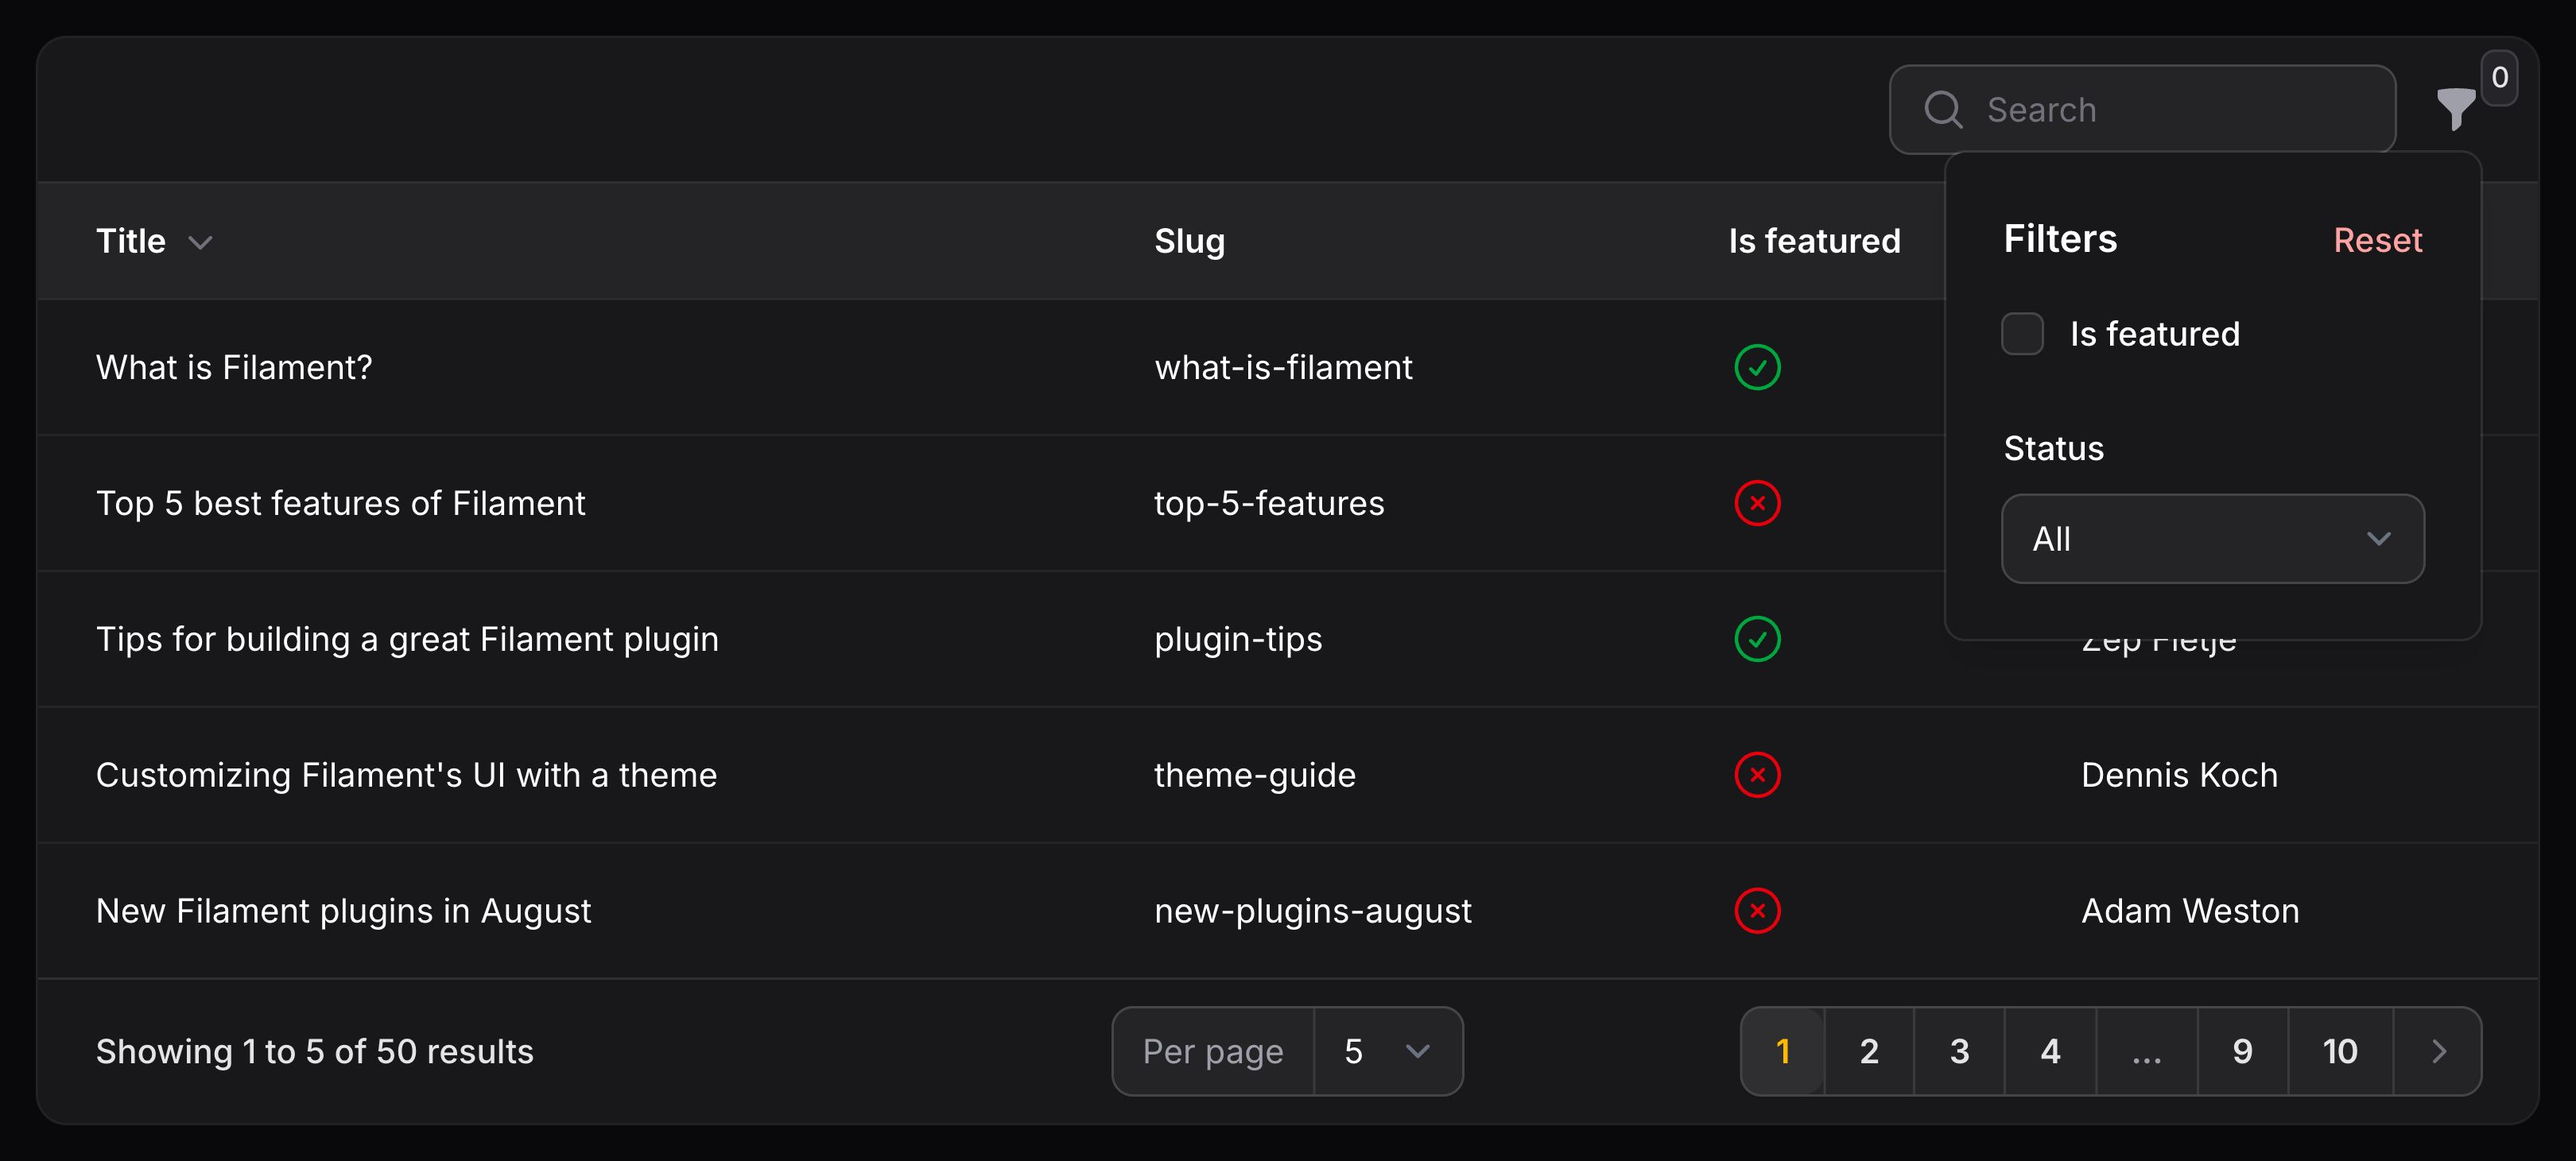
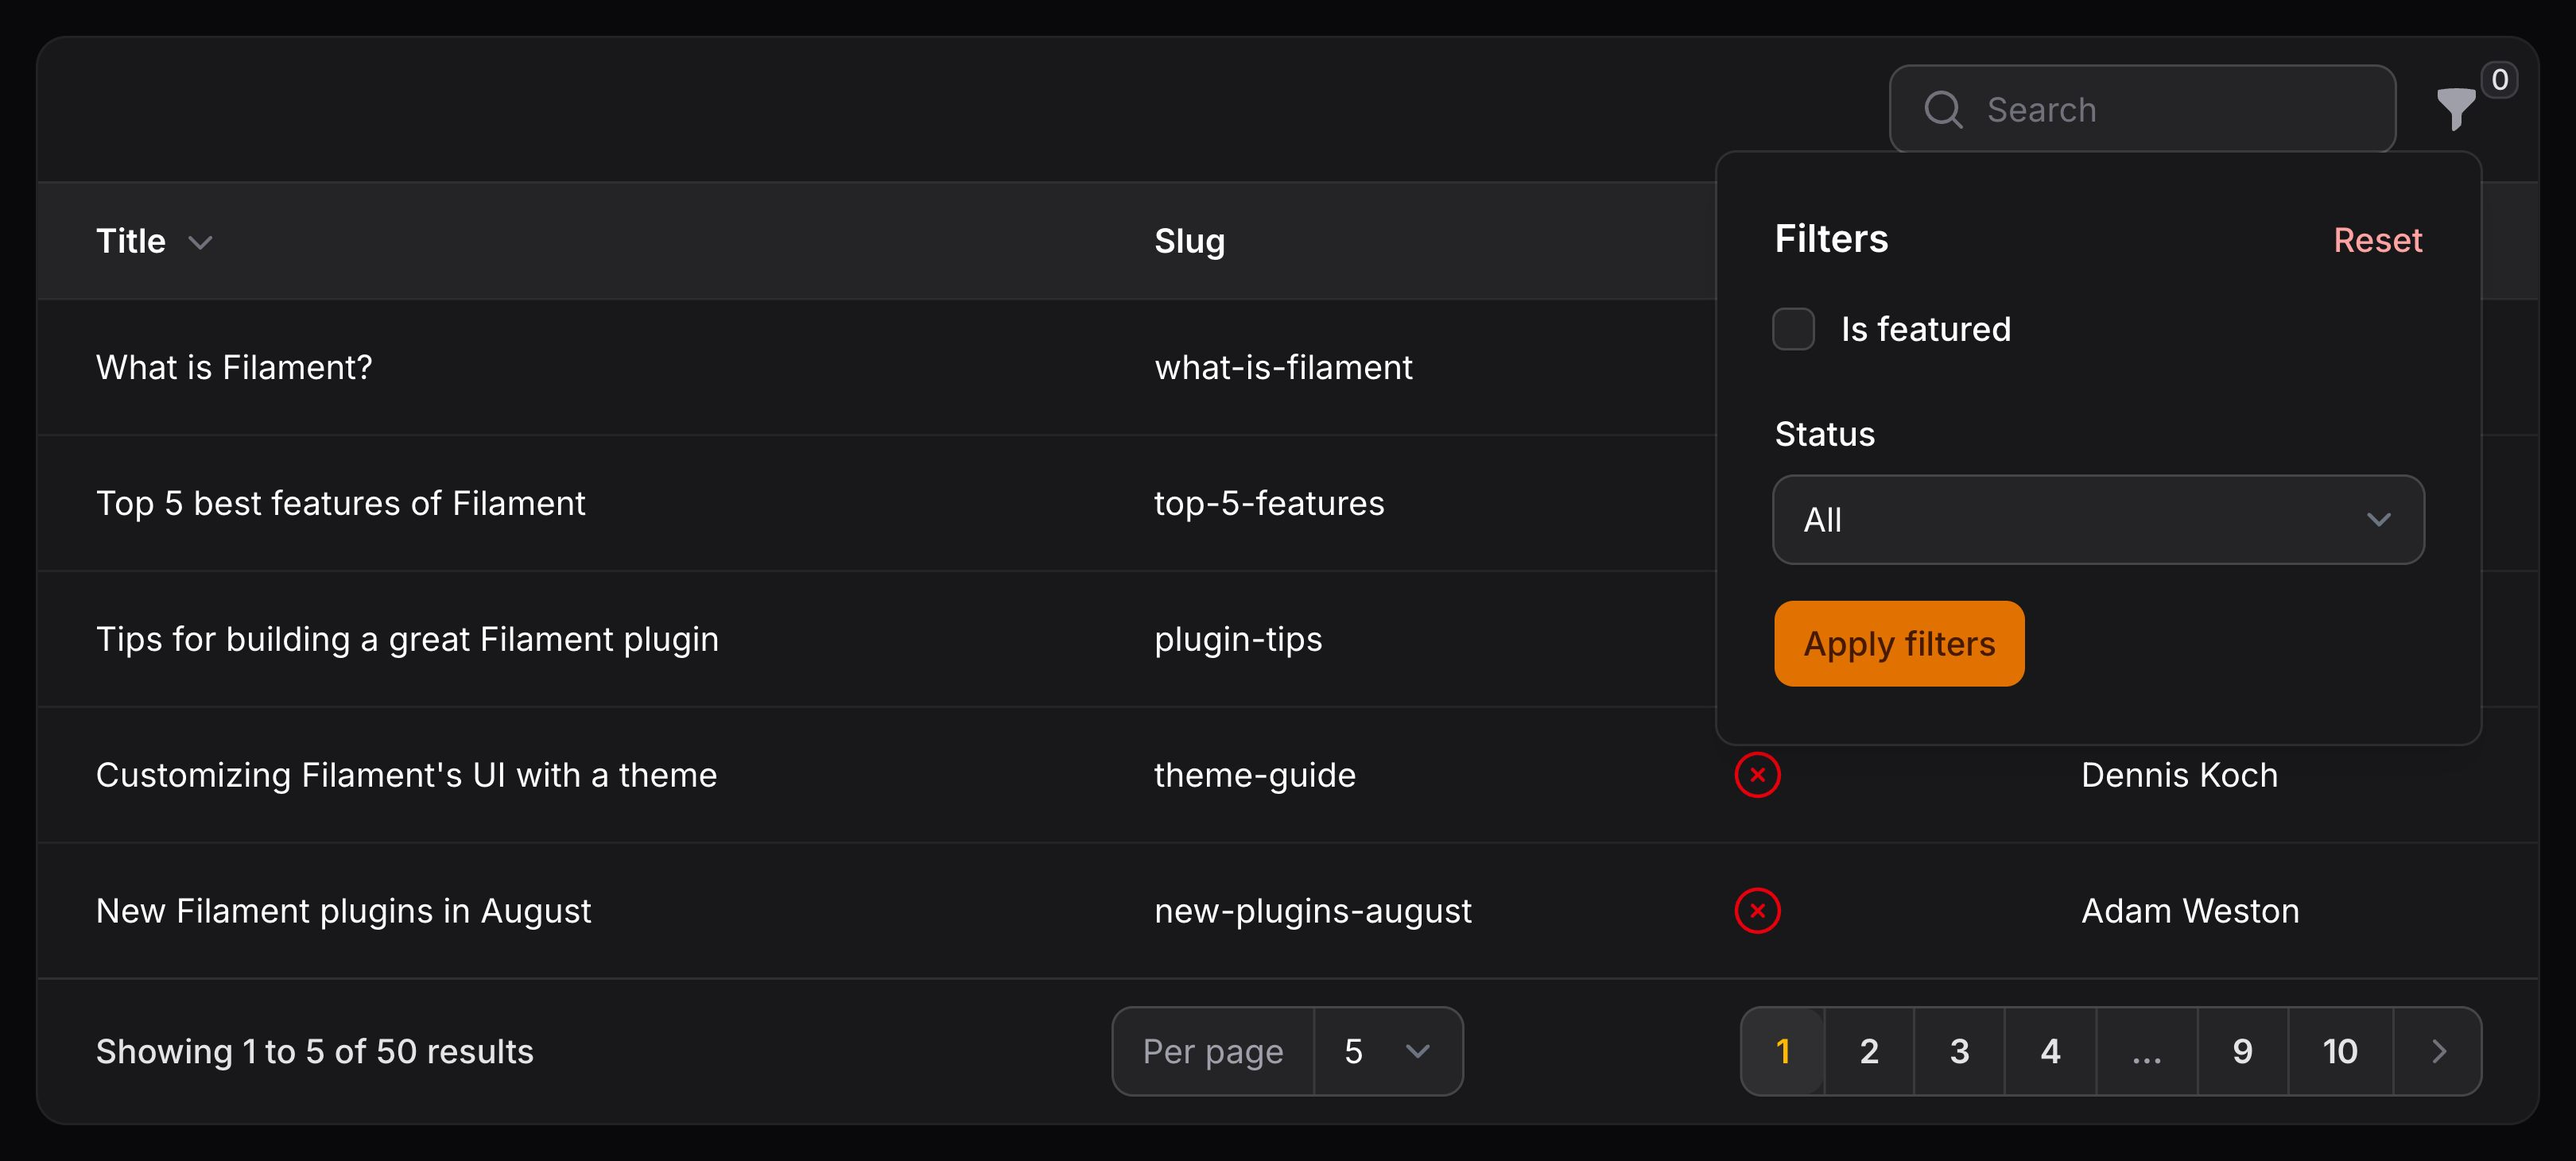
Defer filters by default

diff --git a/packages/tables/src/Table/Concerns/HasFilters.php b/packages/tables/src/Table/Concerns/HasFilters.php
@@ -39,7 +39,7 @@ trait HasFilters
 
     protected bool | Closure $shouldDeselectAllRecordsWhenFiltered = true;
 
-    protected bool | Closure $hasDeferredFilters = false;
+    protected bool | Closure $hasDeferredFilters = true;
 
     protected ?Closure $modifyFiltersApplyActionUsing = null;
 

diff --git a/docs/14-upgrade-guide.md b/docs/14-upgrade-guide.md
@@ -109,7 +109,7 @@ If you have not published the Filament configuration file, or you have removed t
 
 - If you do not have a `FILAMENT_FILESYSTEM_DISK` environment variable set:
     - If the `FILESYSTEM_DISK` environment variable is set to `public`, you can ignore this change, since `public` was the default value for `FILAMENT_FILESYSTEM_DISK` before.
-    - If the `FILESYSTEM_DISK` environment variable is set to something else, you can ignore this change if you are happy with the `FILESYSTEM_DISK` value being used to upload files in Filament. Please be aware that not using a `public` or `s3` disk may lead to unexpected behaviour, as the `local` disk stores private files but is unable to generate public URLs for previews or downloads.
+    - If the `FILESYSTEM_DISK` environment variable is set to something else, you can ignore this change if you are happy with the `FILESYSTEM_DISK` value being used to upload files in Filament. Please be aware that not using a `public` or `s3` disk may lead to unexpected behavior, as the `local` disk stores private files but is unable to generate public URLs for previews or downloads.
 - If you do have a `FILAMENT_FILESYSTEM_DISK` environment variable set:
     - If it is the same as `FILESYSTEM_DISK`, you can remove it completely.
     - If it is different from `FILESYSTEM_DISK`, and it should be, you can [publish the Filament configuration file](installation#publishing-configuration) and set the `default_filesystem_disk` to reference the old `FILAMENT_FILESYSTEM_DISK` environment variable like it was before.
@@ -118,7 +118,7 @@ If you have not published the Filament configuration file, or you have removed t
 <Disclosure open x-show="packages.includes('forms') || packages.includes('infolists')">
 <span slot="summary">The `Grid`, `Section` and `Fieldset` layout components now do not span all columns by default</span>
 
-In v3, the `Grid`, `Section` and `Fieldset` layout components consumed the full width of their parent grid by default. This was inconsistent with the behaviour of every other component in Filament, which only consumes one column of the grid by default. The intention was to make these components easier to integrate into the default Filament resource form and infolist, which uses a two column grid out of the box.
+In v3, the `Grid`, `Section` and `Fieldset` layout components consumed the full width of their parent grid by default. This was inconsistent with the behavior of every other component in Filament, which only consumes one column of the grid by default. The intention was to make these components easier to integrate into the default Filament resource form and infolist, which uses a two column grid out of the box.
 
 In v4, the `Grid`, `Section` and `Fieldset` layout components now only consume one column of the grid by default. If you want them to span all columns, you can use the `columnSpanFull()` method:
 
@@ -138,7 +138,7 @@ Section::make()
 ```
 
 <Aside variant="tip">
-    You can preserve the old default behaviour across your entire app by adding the following code in the `boot()` method of a service provider like `AppServiceProvider`:
+    You can preserve the old default behavior across your entire app by adding the following code in the `boot()` method of a service provider like `AppServiceProvider`:
 
     ```php
     use Filament\Forms\Components\Fieldset;
@@ -166,7 +166,7 @@ In v4, the `unique()` method's `ignoreRecord` parameter defaults to `true`.
 If you were previously using `unqiue()` validation rule without the `ignoreRecord` or `ignorable` parameters, you should use `ignoreRecord: false` to disable the new behavior.
 
 <Aside variant="tip">
-    You can preserve the old default behaviour across your entire app by adding the following code in the `boot()` method of a service provider like `AppServiceProvider`:
+    You can preserve the old default behavior across your entire app by adding the following code in the `boot()` method of a service provider like `AppServiceProvider`:
 
     ```php
     use Filament\Forms\Components\Field;
@@ -176,6 +176,33 @@ If you were previously using `unqiue()` validation rule without the `ignoreRecor
     ```
 </Aside>
 </Disclosure>
+</Disclosure>
+
+<Disclosure open x-show="packages.includes('tables')">
+<span slot="summary">Changes to table filters are not deferred by default</span>
+
+The `deferFilters()` method from Filament v3 is now the default behavior in Filament v4, so users must click a button before the filters are applied to the table. To disable this behavior, you can use the `deferFilters(false)` method.
+
+```php
+use Filament\Tables\Table;
+
+public function table(Table $table): Table
+{
+    return $table
+        ->deferFilters(false);
+}
+```
+
+<Aside variant="tip">
+    You can preserve the old default behavior across your entire app by adding the following code in the `boot()` method of a service provider like `AppServiceProvider`:
+
+    ```php
+    use Filament\Tables\Table;
+
+    Table::configureUsing(fn (Table $table) => $table
+        ->deferFilters(false));
+    ```
+</Aside>
 </Disclosure>
 
 <Disclosure open x-show="packages.includes('tables')">
@@ -196,7 +223,7 @@ public function table(Table $table): Table
 Be aware when using `all` as it will cause performance issues when dealing with a large number of records.
 
 <Aside variant="tip">
-    You can preserve the old default behaviour across your entire app by adding the following code in the `boot()` method of a service provider like `AppServiceProvider`:
+    You can preserve the old default behavior across your entire app by adding the following code in the `boot()` method of a service provider like `AppServiceProvider`:
 
     ```php
     use Filament\Tables\Table;
@@ -310,10 +337,10 @@ In v3, the `inline()` method put the radio buttons inline with each other, and a
 
 In v4, the `inline()` method now only puts the radio buttons inline with each other, and not with the label. If you want the radio buttons to be inline with the label, you can use the `inlineLabel()` method as well.
 
-If you were previously using `inline()->inlineLabel(false)` to achieve the v4 behaviour, you can now simply use `inline()`.
+If you were previously using `inline()->inlineLabel(false)` to achieve the v4 behavior, you can now simply use `inline()`.
 
 <Aside variant="tip">
-    You can preserve the old default behaviour across your entire app by adding the following code in the `boot()` method of a service provider like `AppServiceProvider`:
+    You can preserve the old default behavior across your entire app by adding the following code in the `boot()` method of a service provider like `AppServiceProvider`:
 
     ```php
     use Filament\Forms\Components\Radio;
@@ -331,7 +358,7 @@ In Filament v3, import and export jobs were retries continuously for 24 hours if
 
 In v4, they are retried 3 times with a 60 second backoff between each retry.
 
-This behaviour can be customized in the [importer](import#customizing-the-import-job-retries) and [exporter](export#customizing-the-export-job-retries) classes.
+This behavior can be customized in the [importer](import#customizing-the-import-job-retries) and [exporter](export#customizing-the-export-job-retries) classes.
 </Disclosure>
 
 <Disclosure x-show="packages.includes('widgets')">
@@ -359,7 +386,7 @@ public function getStats(): array
 <Disclosure x-show="packages.includes('panels')">
 <span slot="summary">`getCurrentPanel()` no longer returns the default panel as a fallback</span>
 
-In v4, the `getCurrentPanel()` method returned the default panel if no panel was set. While this was useful behaviour internally in Filament core, it was unexpected for developers. In v4, `getCurrentPanel()` will return `null` if no panel is set, and you should handle this case in your code.
+In v4, the `getCurrentPanel()` method returned the default panel if no panel was set. While this was useful behavior internally in Filament core, it was unexpected for developers. In v4, `getCurrentPanel()` will return `null` if no panel is set, and you should handle this case in your code.
 
 ```php
 use Filament\Facades\Filament;

diff --git a/packages/tables/docs/03-filters/01-overview.md b/packages/tables/docs/03-filters/01-overview.md
@@ -124,9 +124,9 @@ public function table(Table $table): Table
 }
 ```
 
-## Deferring filters
+## Live filters
 
-You can defer filter changes from affecting the table, until the user clicks an "Apply" button. To do this, use the `deferFilters()` method:
+By default, filter changes are deferred and do not affect the table, until the user clicks an "Apply" button. To disable this and make the filters "live" instead, use the `deferFilters(false)` method:
 
 ```php
 use Filament\Tables\Table;
@@ -137,7 +137,7 @@ public function table(Table $table): Table
         ->filters([
             // ...
         ])
-        ->deferFilters();
+        ->deferFilters(false);
 }
 ```
 
